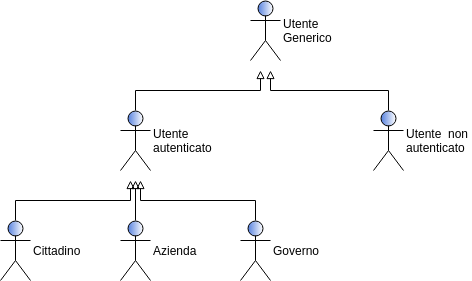
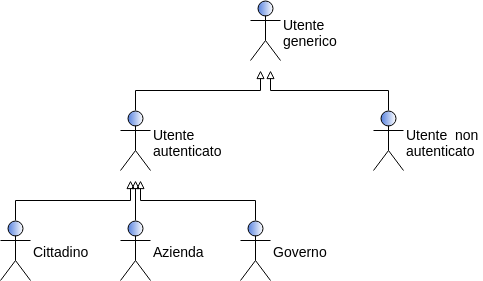
fix maiuscola in testo e in immagine attori_primari.png

diff --git a/RR/Esterni/Analisi_dei_requisiti/res/sections/casi_duso.tex b/RR/Esterni/Analisi_dei_requisiti/res/sections/casi_duso.tex
@@ -4,10 +4,10 @@
 \begin{figure}[h]
 	\includegraphics[width=7cm]{res/images/attori_primari.png}
 	\centering
-	\caption{Gerarchia attori primari}
+	\caption{Gerarchia degli attori primari}
 \end{figure}
 \begin{description}[style=nextline]
-	\item[Utente Generico]
+	\item[Utente generico]
 	Si riferisce ad un utente generico che accede alla piattaforma dal sito web.
 	\item[Utente non autenticato]
 	Si riferisce ad un utente generico che non ha ancora effettuato l'autenticazione alla piattaforma.
